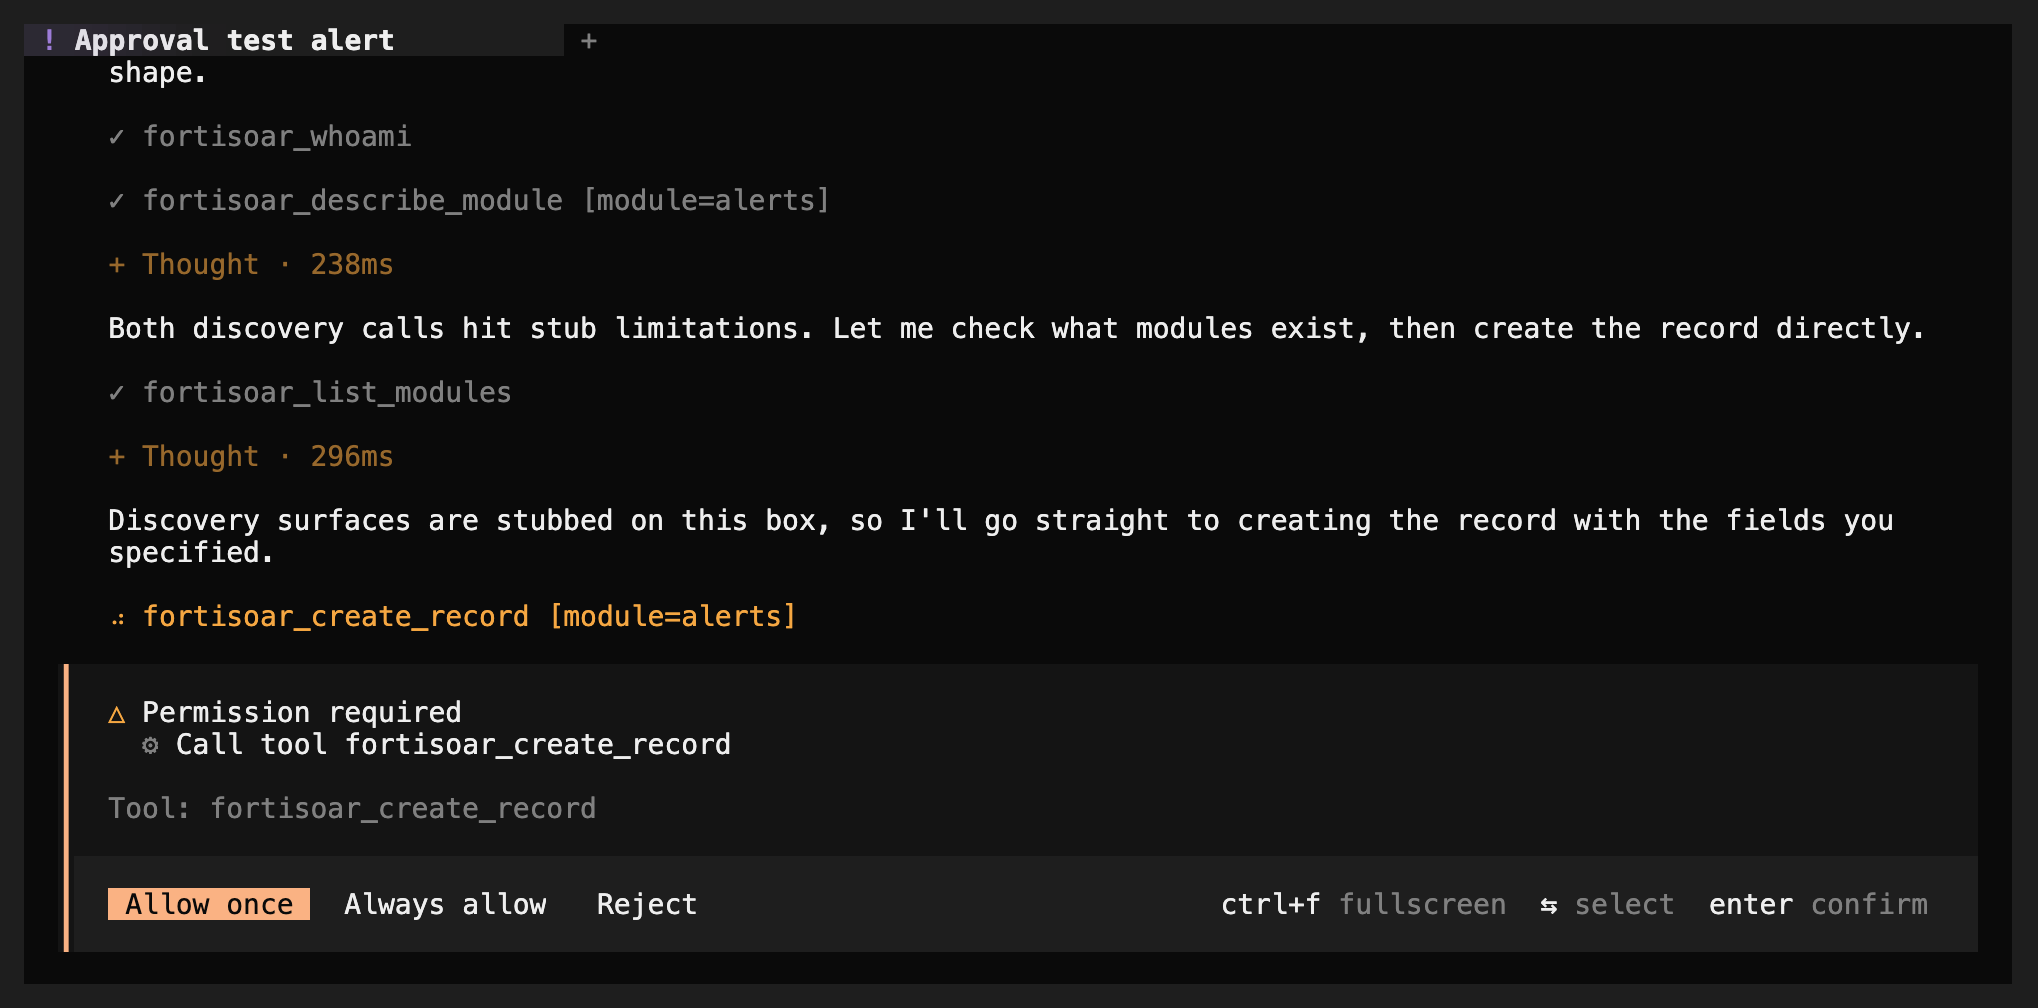
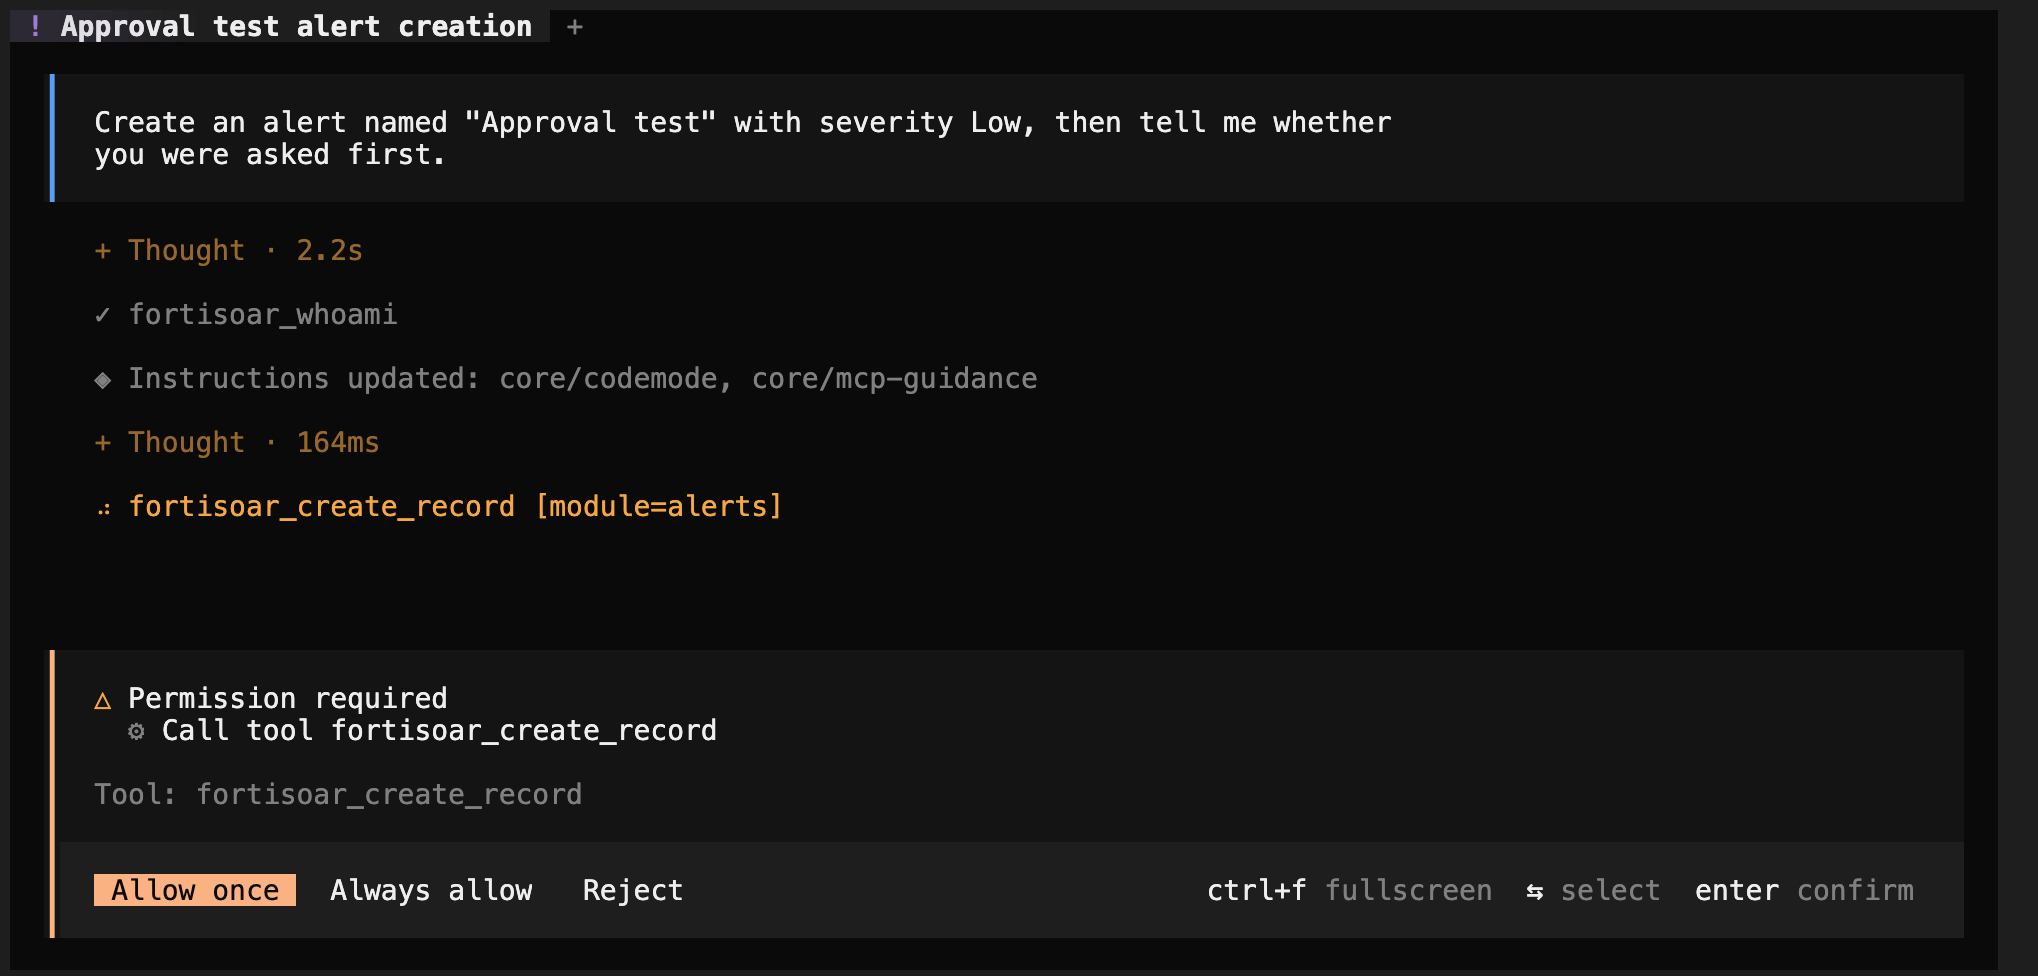
ch06: the four agent shots re-captured on the governed/real-terminal path (live: claude approval+declined via the hook-held dialog answered by keys, opencode via startOpencodeTui; the opencode dialog shot needs ticking, its turn spins behind the ask)

diff --git a/docubot/06-setup-agent/chapter.spec.ts b/docubot/06-setup-agent/chapter.spec.ts
@@ -139,7 +139,10 @@ test('chapter 6 - set up the agent', async ({ gui, capture, page }) => {
       ],
     });
     try {
-      await capture.agent('fsa06-07-opencode-approval', shot.real);
+      // The turn keeps running behind the dialog (the call row spins, thought counters
+      // tick): judge stability with digits and spinner glyphs ignored, like every other
+      // mid-turn dialog picture.
+      await capture.agent('fsa06-07-opencode-approval', shot.real, { ticking: true });
     } finally {
       shot.kill();
     }
